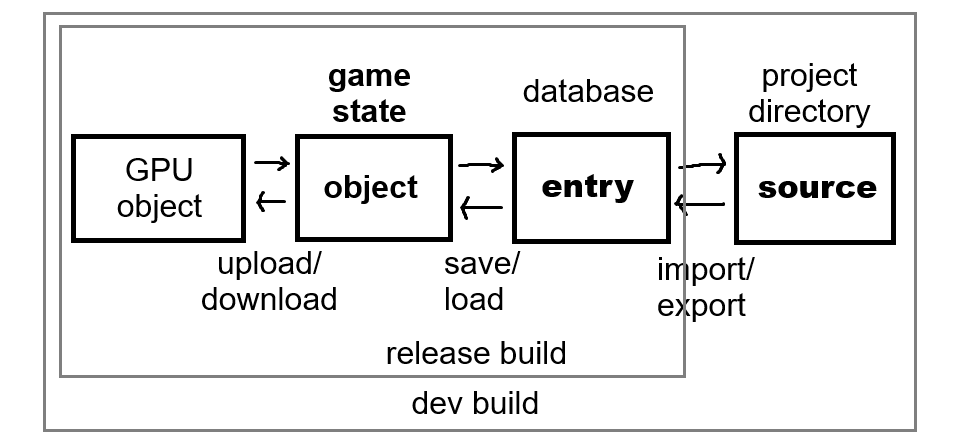
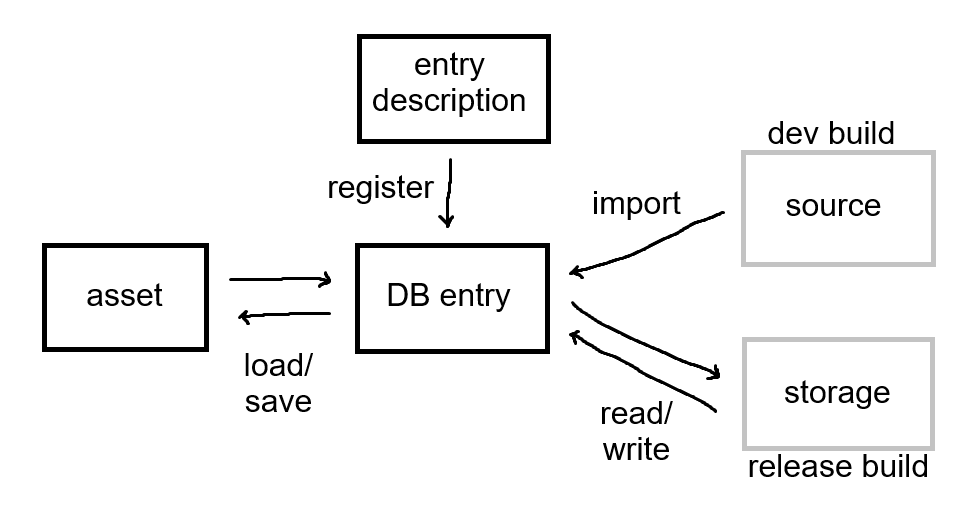
effect pipeline prototype
Implemented the effect pipeline and drew a simple effect on the screen.

diff --git a/engine/doc/book/print.html b/engine/doc/book/print.html
@@ -36,7 +36,7 @@
             const path_to_root = "";
             const default_light_theme = "light";
             const default_dark_theme = "navy";
-            window.path_to_searchindex_js = "searchindex-9d324ef6.js";
+            window.path_to_searchindex_js = "searchindex-c4aa1afd.js";
         </script>
         <!-- Start loading toc.js asap -->
         <script src="toc-67184962.js"></script>
@@ -285,7 +285,11 @@ lock_push_pop :: proc(
 </code></pre>
 <div style="break-before: page; page-break-before: always;"></div>
 <h1 id="database"><a class="header" href="#database">Database</a></h1>
-<p>A basic key-value database. Entries are slices of bytes, accessed by a string URL. The URL has the form <code>&lt;kind&gt;:&lt;name&gt;</code>.</p>
+<p><em>TODO:</em> Rename to asset manager.</p>
+<p><img src="dataflow.png" alt="dataflow-image"></p>
+<p>Database is an abstraction layer between the in-memory and on-disk representations of assets. It’s purpose is to make it so you don’t have to think about where the assets are coming from and to automate updating and reloading them.</p>
+<p>Assets are identified by a string URL. The URL has the form <code>&lt;kind&gt;:&lt;name&gt;</code>. The intended way of managing assets is by registering their kinds at initialization time, then loading them and then saving them at deinitialization time; The database will automatically do the importing, reading, and writing for you. However, if you want, you can also import, read, or write manually.</p>
+<p>By setting the <code>watch</code> field on <code>Asset_Manager_Config</code>, you can enable the asset manager to watch for changes and automatically read, import, or load assets. This can allow you to edit assets while the game is running and see changes in real time.</p>
 <h3 id="types-1"><a class="header" href="#types-1">Types</a></h3>
 <h4 id="url"><a class="header" href="#url"><code>URL</code></a></h4>
 <pre><code class="language-c">URL :: distinct string
@@ -311,6 +315,17 @@ lock_push_pop :: proc(
 <h4 id="entry"><a class="header" href="#entry"><code>Entry</code></a></h4>
 <pre><code class="language-c">Entry :: struct {
 	using config: Entry_Config }
+</code></pre>
+<h4 id="serialize_proc"><a class="header" href="#serialize_proc"><code>Serialize_Proc</code></a></h4>
+<pre><code>Serialize_Proc :: #type proc(
+	data: rawptr,
+	size: u32,
+	allocator: rt.Allocator) -&gt; (bytes: []u8, err: os.Error)
+</code></pre>
+<h4 id="deserialize_proc"><a class="header" href="#deserialize_proc"><code>Deserialize_Proc</code></a></h4>
+<pre><code>Deserialize_Proc :: #type proc(
+	bytes: []u8,
+	allocator: rt.Allocator) -&gt; (data: rawptr, size: u32, err: os.Error)
 </code></pre>
 <h4 id="make_database"><a class="header" href="#make_database"><code>make_database</code></a></h4>
 <p>Database constructor.</p>
@@ -586,24 +601,30 @@ for {
 	b: ^Image) -&gt; bool
 </code></pre>
 <h4 id="import_or_retreive_image"><a class="header" href="#import_or_retreive_image"><code>import_or_retreive_image</code></a></h4>
-<p>Get an image from the database by URL. If no such image exists, load it from file and add to the database.</p>
 <pre><code class="language-c">import_or_retreive_image :: proc(
 	database: ^db.Database,
 	url: db.URL,
 	allocator: rt.Allocator) -&gt; (image: Image, err: os.Error)
 </code></pre>
+<details><summary>Description</summary>
+Get an image from the database by URL. If no such image exists, load it from file and add to the database.
+</details>
 <h4 id="image_serialize"><a class="header" href="#image_serialize"><code>image_serialize</code></a></h4>
-<p>Serialize an <code>Image</code> object.</p>
 <pre><code class="language-c">image_serialize :: proc(
 	image: ^Image,
 	allocator: rt.Allocator) -&gt; (bytes: []u8, err: os.Error)
 </code></pre>
+<details><summary>Description</summary>
+Serialize an `Image` object.
+</details>
 <h4 id="image_deserialize"><a class="header" href="#image_deserialize"><code>image_deserialize</code></a></h4>
-<p>Deserialize an <code>Image</code> object.</p>
 <pre><code class="language-c">image_deserialize :: proc(
 	bytes: []u8,
 	allocator: rt.Allocator) -&gt; (image: Image, err: os.Error)
 </code></pre>
+<details><summary>Description</summary>
+Deserialize an `Image` object.
+</details>
 <h4 id="load_from_path"><a class="header" href="#load_from_path"><code>load_from_path</code></a></h4>
 <pre><code class="language-c">load_from_path :: proc(
 	path: string,
@@ -611,20 +632,26 @@ for {
 	allocator: rt.Allocator) -&gt; (image: Image, err: os.Error)
 </code></pre>
 <h4 id="upload_image"><a class="header" href="#upload_image"><code>upload_image</code></a></h4>
-<p>Upload image to GPU memory.</p>
 <pre><code class="language-c">upload_image :: proc(
 	image: ^Image) -&gt; bool
 </code></pre>
+<details><summary>Description</summary>
+Upload image to GPU memory.
+</details>
 <h4 id="download_image"><a class="header" href="#download_image"><code>download_image</code></a></h4>
-<p>Release the GPU memory associated with the image.</p>
 <pre><code class="language-c">download_image :: proc(
 	image: ^Image)
 </code></pre>
+<details><summary>Description</summary>
+Release the GPU memory associated with the image.
+</details>
 <h4 id="image_loaded"><a class="header" href="#image_loaded"><code>image_loaded</code></a></h4>
-<p>Check if the image has been uploaded to the GPU.</p>
 <pre><code class="language-c">image_loaded :: proc(
 	image: ^Image) -&gt; bool
 </code></pre>
+<details><summary>Description</summary>
+Check if the image has been uploaded to the GPU.
+</details>
 <div style="break-before: page; page-break-before: always;"></div>
 <h1 id="model"><a class="header" href="#model">Model</a></h1>
 <h3 id="types-4"><a class="header" href="#types-4">Types</a></h3>

diff --git a/engine/doc/book/API/graphics.html b/engine/doc/book/API/graphics.html
@@ -35,7 +35,7 @@
             const path_to_root = "../";
             const default_light_theme = "light";
             const default_dark_theme = "navy";
-            window.path_to_searchindex_js = "../searchindex-9d324ef6.js";
+            window.path_to_searchindex_js = "../searchindex-c4aa1afd.js";
         </script>
         <!-- Start loading toc.js asap -->
         <script src="../toc-67184962.js"></script>
@@ -188,24 +188,30 @@
 	b: ^Image) -&gt; bool
 </code></pre>
 <h4 id="import_or_retreive_image"><a class="header" href="#import_or_retreive_image"><code>import_or_retreive_image</code></a></h4>
-<p>Get an image from the database by URL. If no such image exists, load it from file and add to the database.</p>
 <pre><code class="language-c">import_or_retreive_image :: proc(
 	database: ^db.Database,
 	url: db.URL,
 	allocator: rt.Allocator) -&gt; (image: Image, err: os.Error)
 </code></pre>
+<details><summary>Description</summary>
+Get an image from the database by URL. If no such image exists, load it from file and add to the database.
+</details>
 <h4 id="image_serialize"><a class="header" href="#image_serialize"><code>image_serialize</code></a></h4>
-<p>Serialize an <code>Image</code> object.</p>
 <pre><code class="language-c">image_serialize :: proc(
 	image: ^Image,
 	allocator: rt.Allocator) -&gt; (bytes: []u8, err: os.Error)
 </code></pre>
+<details><summary>Description</summary>
+Serialize an `Image` object.
+</details>
 <h4 id="image_deserialize"><a class="header" href="#image_deserialize"><code>image_deserialize</code></a></h4>
-<p>Deserialize an <code>Image</code> object.</p>
 <pre><code class="language-c">image_deserialize :: proc(
 	bytes: []u8,
 	allocator: rt.Allocator) -&gt; (image: Image, err: os.Error)
 </code></pre>
+<details><summary>Description</summary>
+Deserialize an `Image` object.
+</details>
 <h4 id="load_from_path"><a class="header" href="#load_from_path"><code>load_from_path</code></a></h4>
 <pre><code class="language-c">load_from_path :: proc(
 	path: string,
@@ -213,20 +219,26 @@
 	allocator: rt.Allocator) -&gt; (image: Image, err: os.Error)
 </code></pre>
 <h4 id="upload_image"><a class="header" href="#upload_image"><code>upload_image</code></a></h4>
-<p>Upload image to GPU memory.</p>
 <pre><code class="language-c">upload_image :: proc(
 	image: ^Image) -&gt; bool
 </code></pre>
+<details><summary>Description</summary>
+Upload image to GPU memory.
+</details>
 <h4 id="download_image"><a class="header" href="#download_image"><code>download_image</code></a></h4>
-<p>Release the GPU memory associated with the image.</p>
 <pre><code class="language-c">download_image :: proc(
 	image: ^Image)
 </code></pre>
+<details><summary>Description</summary>
+Release the GPU memory associated with the image.
+</details>
 <h4 id="image_loaded"><a class="header" href="#image_loaded"><code>image_loaded</code></a></h4>
-<p>Check if the image has been uploaded to the GPU.</p>
 <pre><code class="language-c">image_loaded :: proc(
 	image: ^Image) -&gt; bool
 </code></pre>
+<details><summary>Description</summary>
+Check if the image has been uploaded to the GPU.
+</details>
 
                     </main>
 

diff --git a/engine/doc/book/API/database.html b/engine/doc/book/API/database.html
@@ -35,7 +35,7 @@
             const path_to_root = "../";
             const default_light_theme = "light";
             const default_dark_theme = "navy";
-            window.path_to_searchindex_js = "../searchindex-9d324ef6.js";
+            window.path_to_searchindex_js = "../searchindex-c4aa1afd.js";
         </script>
         <!-- Start loading toc.js asap -->
         <script src="../toc-67184962.js"></script>
@@ -175,7 +175,11 @@
                 <div id="mdbook-content" class="content">
                     <main>
                         <h1 id="database"><a class="header" href="#database">Database</a></h1>
-<p>A basic key-value database. Entries are slices of bytes, accessed by a string URL. The URL has the form <code>&lt;kind&gt;:&lt;name&gt;</code>.</p>
+<p><em>TODO:</em> Rename to asset manager.</p>
+<p><img src="../dataflow.png" alt="dataflow-image"></p>
+<p>Database is an abstraction layer between the in-memory and on-disk representations of assets. It’s purpose is to make it so you don’t have to think about where the assets are coming from and to automate updating and reloading them.</p>
+<p>Assets are identified by a string URL. The URL has the form <code>&lt;kind&gt;:&lt;name&gt;</code>. The intended way of managing assets is by registering their kinds at initialization time, then loading them and then saving them at deinitialization time; The database will automatically do the importing, reading, and writing for you. However, if you want, you can also import, read, or write manually.</p>
+<p>By setting the <code>watch</code> field on <code>Asset_Manager_Config</code>, you can enable the asset manager to watch for changes and automatically read, import, or load assets. This can allow you to edit assets while the game is running and see changes in real time.</p>
 <h3 id="types"><a class="header" href="#types">Types</a></h3>
 <h4 id="url"><a class="header" href="#url"><code>URL</code></a></h4>
 <pre><code class="language-c">URL :: distinct string
@@ -201,6 +205,17 @@
 <h4 id="entry"><a class="header" href="#entry"><code>Entry</code></a></h4>
 <pre><code class="language-c">Entry :: struct {
 	using config: Entry_Config }
+</code></pre>
+<h4 id="serialize_proc"><a class="header" href="#serialize_proc"><code>Serialize_Proc</code></a></h4>
+<pre><code>Serialize_Proc :: #type proc(
+	data: rawptr,
+	size: u32,
+	allocator: rt.Allocator) -&gt; (bytes: []u8, err: os.Error)
+</code></pre>
+<h4 id="deserialize_proc"><a class="header" href="#deserialize_proc"><code>Deserialize_Proc</code></a></h4>
+<pre><code>Deserialize_Proc :: #type proc(
+	bytes: []u8,
+	allocator: rt.Allocator) -&gt; (data: rawptr, size: u32, err: os.Error)
 </code></pre>
 <h4 id="make_database"><a class="header" href="#make_database"><code>make_database</code></a></h4>
 <p>Database constructor.</p>

diff --git a/engine/doc/book/404.html b/engine/doc/book/404.html
@@ -36,7 +36,7 @@
             const path_to_root = "";
             const default_light_theme = "light";
             const default_dark_theme = "navy";
-            window.path_to_searchindex_js = "searchindex-9d324ef6.js";
+            window.path_to_searchindex_js = "searchindex-c4aa1afd.js";
         </script>
         <!-- Start loading toc.js asap -->
         <script src="toc-67184962.js"></script>

diff --git a/engine/doc/book/API.html b/engine/doc/book/API.html
@@ -35,7 +35,7 @@
             const path_to_root = "";
             const default_light_theme = "light";
             const default_dark_theme = "navy";
-            window.path_to_searchindex_js = "searchindex-9d324ef6.js";
+            window.path_to_searchindex_js = "searchindex-c4aa1afd.js";
         </script>
         <!-- Start loading toc.js asap -->
         <script src="toc-67184962.js"></script>

diff --git a/engine/doc/book/API/base.html b/engine/doc/book/API/base.html
@@ -35,7 +35,7 @@
             const path_to_root = "../";
             const default_light_theme = "light";
             const default_dark_theme = "navy";
-            window.path_to_searchindex_js = "../searchindex-9d324ef6.js";
+            window.path_to_searchindex_js = "../searchindex-c4aa1afd.js";
         </script>
         <!-- Start loading toc.js asap -->
         <script src="../toc-67184962.js"></script>

diff --git a/engine/doc/book/API/container.html b/engine/doc/book/API/container.html
@@ -35,7 +35,7 @@
             const path_to_root = "../";
             const default_light_theme = "light";
             const default_dark_theme = "navy";
-            window.path_to_searchindex_js = "../searchindex-9d324ef6.js";
+            window.path_to_searchindex_js = "../searchindex-c4aa1afd.js";
         </script>
         <!-- Start loading toc.js asap -->
         <script src="../toc-67184962.js"></script>

diff --git a/engine/doc/book/API/dll.html b/engine/doc/book/API/dll.html
@@ -35,7 +35,7 @@
             const path_to_root = "../";
             const default_light_theme = "light";
             const default_dark_theme = "navy";
-            window.path_to_searchindex_js = "../searchindex-9d324ef6.js";
+            window.path_to_searchindex_js = "../searchindex-c4aa1afd.js";
         </script>
         <!-- Start loading toc.js asap -->
         <script src="../toc-67184962.js"></script>

diff --git a/engine/doc/book/API/model.html b/engine/doc/book/API/model.html
@@ -35,7 +35,7 @@
             const path_to_root = "../";
             const default_light_theme = "light";
             const default_dark_theme = "navy";
-            window.path_to_searchindex_js = "../searchindex-9d324ef6.js";
+            window.path_to_searchindex_js = "../searchindex-c4aa1afd.js";
         </script>
         <!-- Start loading toc.js asap -->
         <script src="../toc-67184962.js"></script>

diff --git a/engine/doc/book/API/scene.html b/engine/doc/book/API/scene.html
@@ -35,7 +35,7 @@
             const path_to_root = "../";
             const default_light_theme = "light";
             const default_dark_theme = "navy";
-            window.path_to_searchindex_js = "../searchindex-9d324ef6.js";
+            window.path_to_searchindex_js = "../searchindex-c4aa1afd.js";
         </script>
         <!-- Start loading toc.js asap -->
         <script src="../toc-67184962.js"></script>

diff --git a/engine/doc/book/index.html b/engine/doc/book/index.html
@@ -35,7 +35,7 @@
             const path_to_root = "";
             const default_light_theme = "light";
             const default_dark_theme = "navy";
-            window.path_to_searchindex_js = "searchindex-9d324ef6.js";
+            window.path_to_searchindex_js = "searchindex-c4aa1afd.js";
         </script>
         <!-- Start loading toc.js asap -->
         <script src="toc-67184962.js"></script>

diff --git a/engine/doc/book/overview.html b/engine/doc/book/overview.html
@@ -35,7 +35,7 @@
             const path_to_root = "";
             const default_light_theme = "light";
             const default_dark_theme = "navy";
-            window.path_to_searchindex_js = "searchindex-9d324ef6.js";
+            window.path_to_searchindex_js = "searchindex-c4aa1afd.js";
         </script>
         <!-- Start loading toc.js asap -->
         <script src="toc-67184962.js"></script>